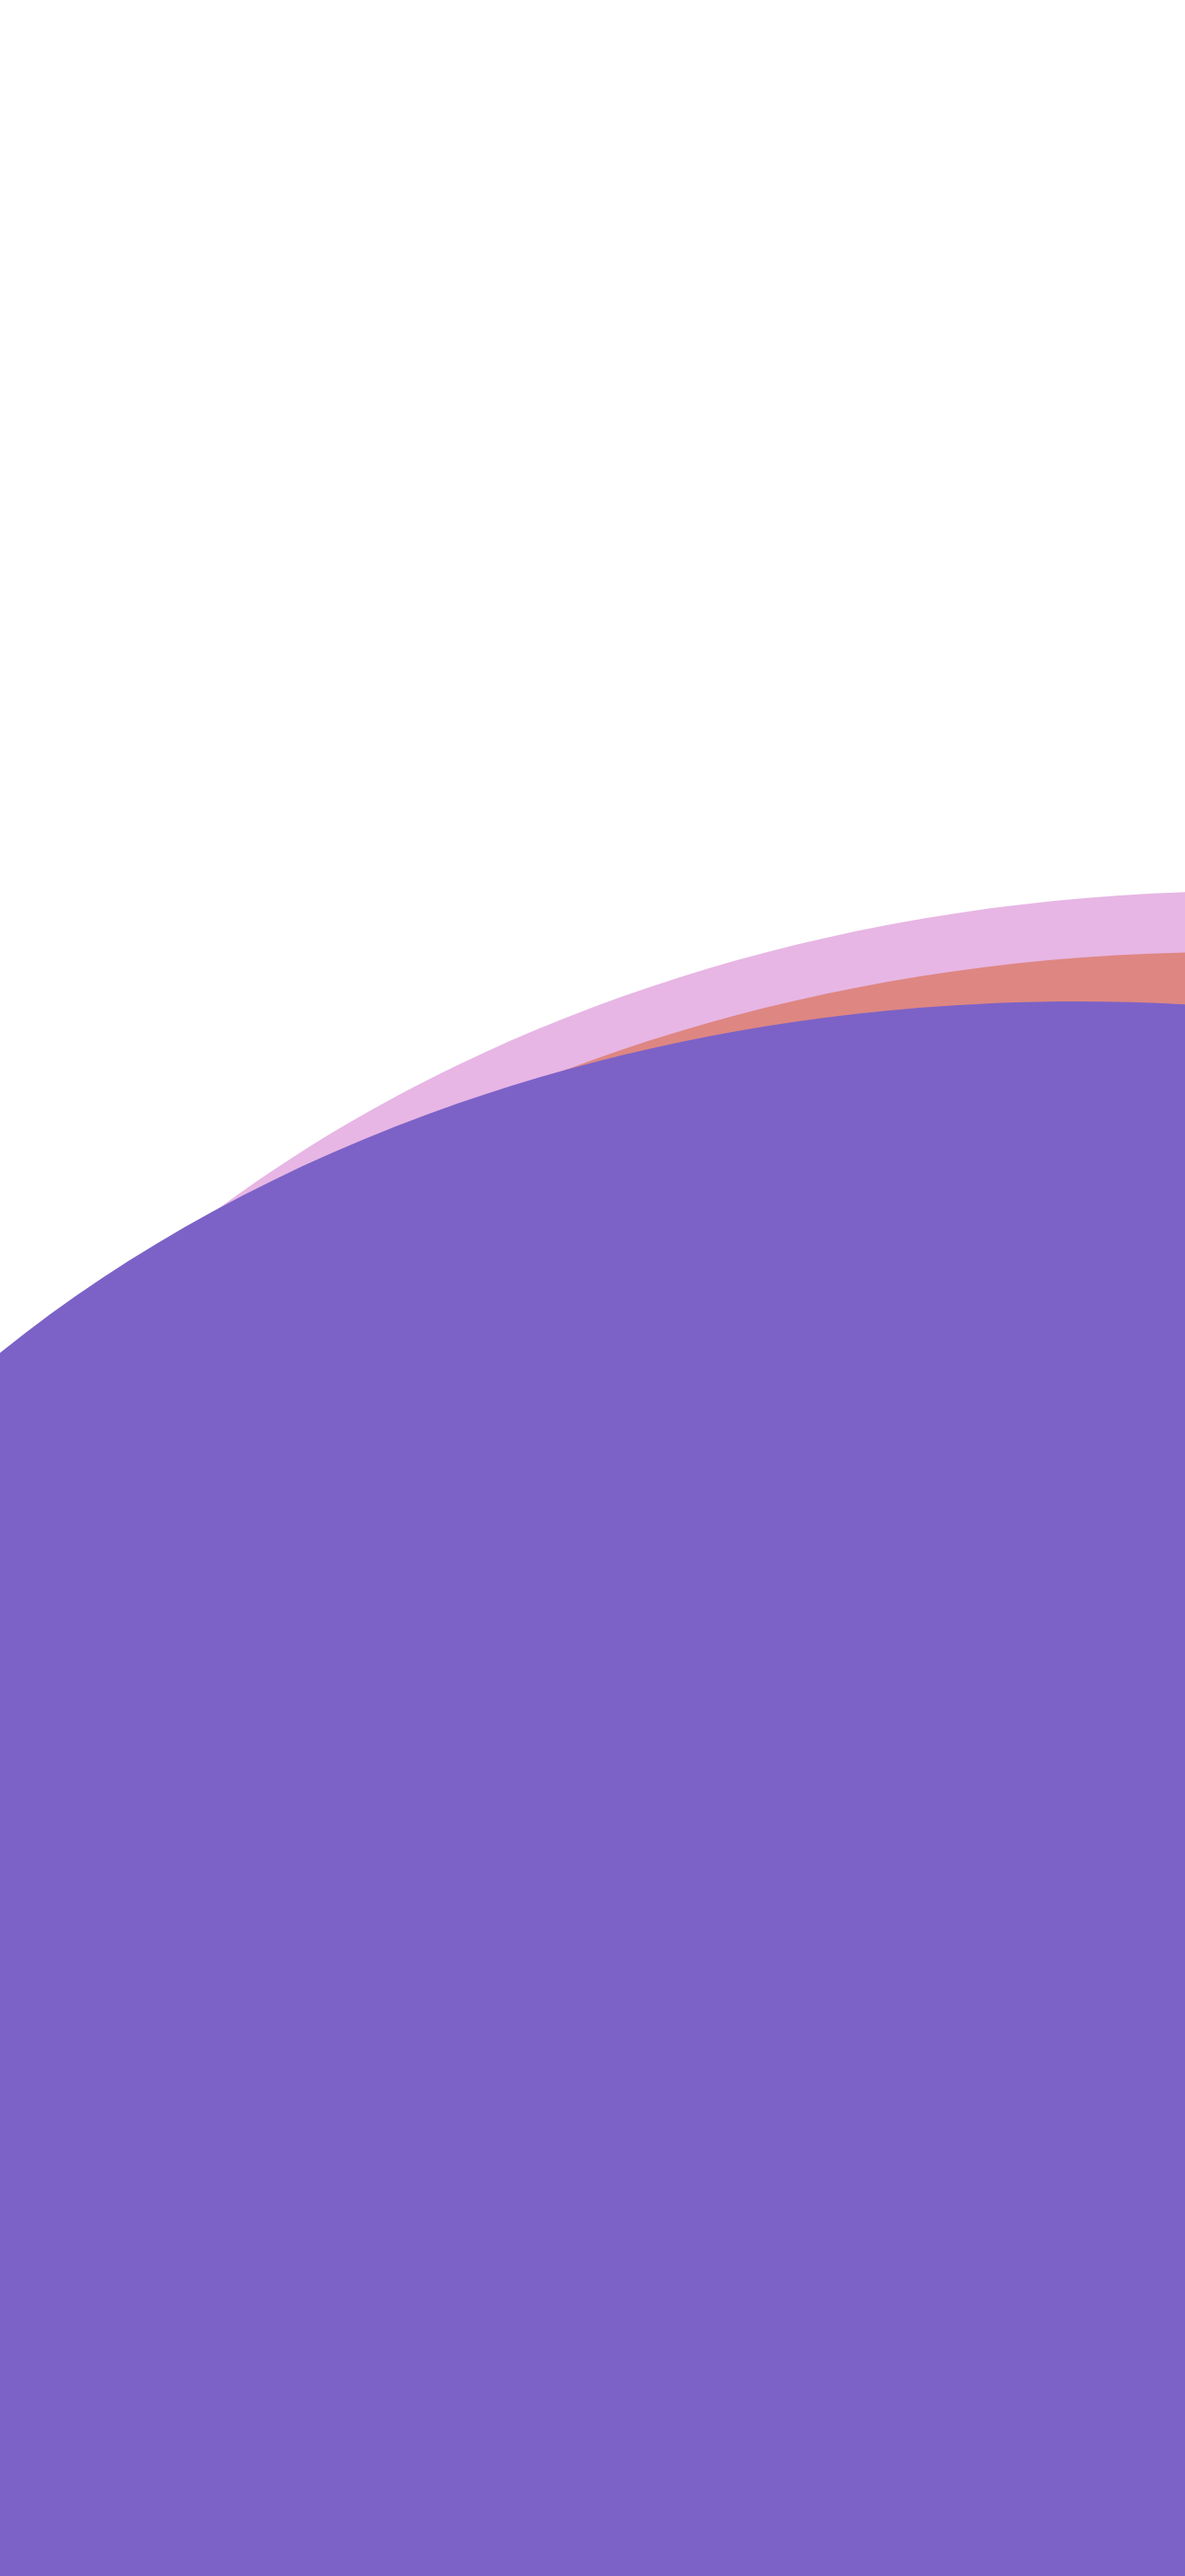
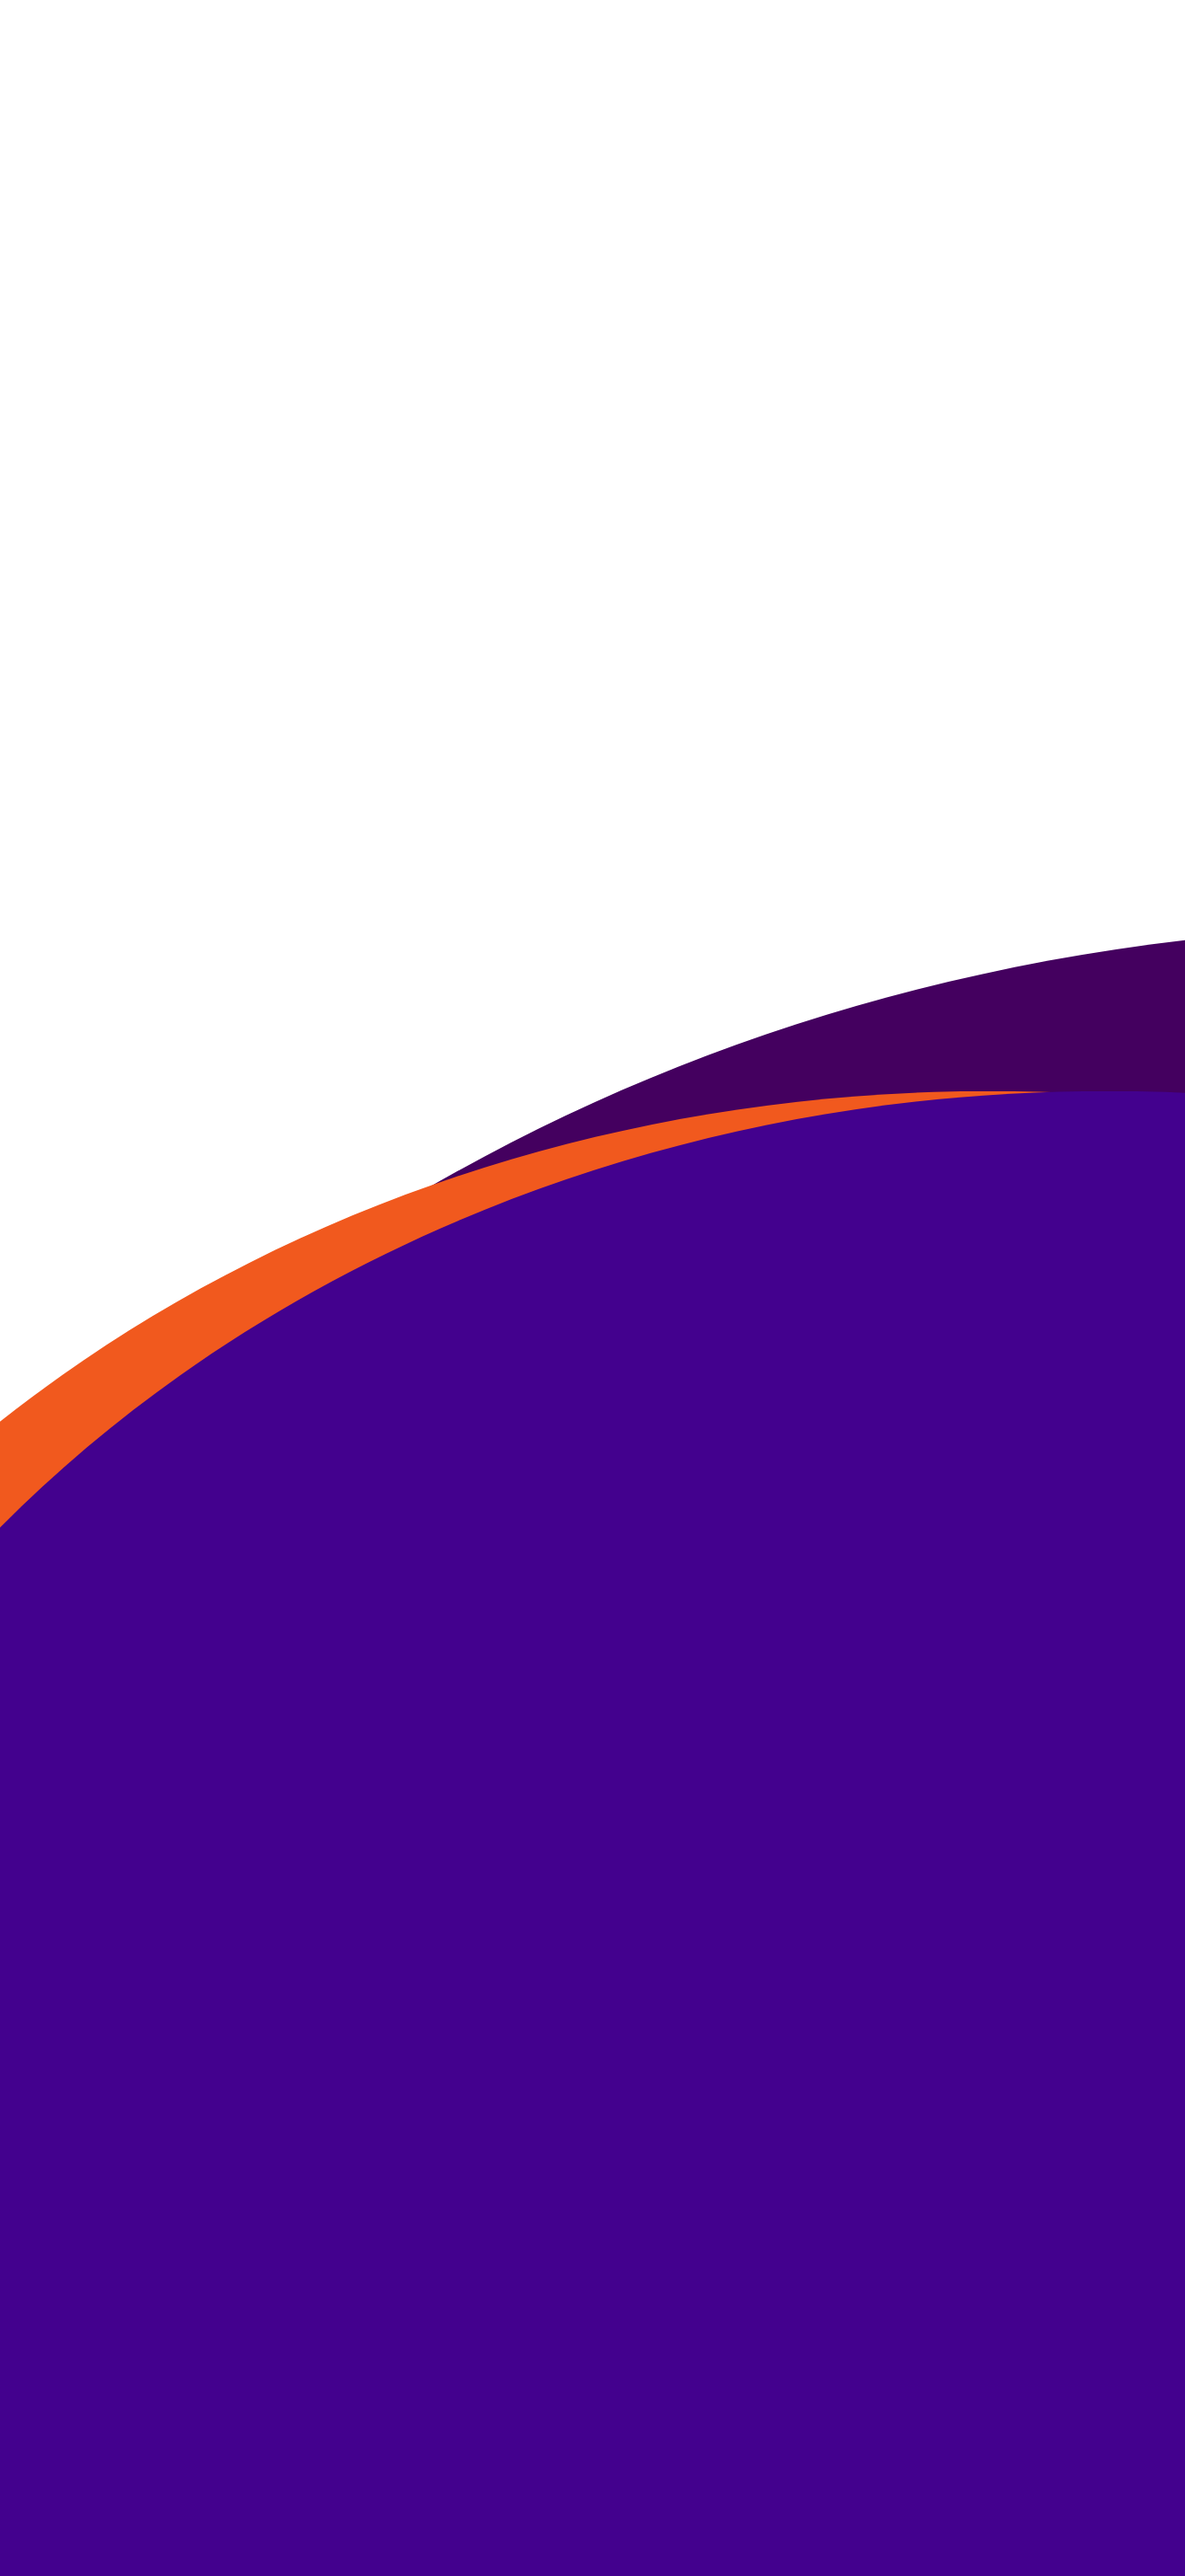
style: identidade visual

diff --git a/src/pages/user-personal-carteirinha-screen/index.tsx b/src/pages/user-personal-carteirinha-screen/index.tsx
@@ -203,7 +203,7 @@ const styles = StyleSheet.create({
   noAccessTitle: {
     fontSize: 24,
     fontWeight: 'bold',
-    color: '#7b5cbf',
+    color: '#44005F',
     marginBottom: 10,
     textAlign: 'center',
   },
@@ -330,7 +330,7 @@ const styles = StyleSheet.create({
     marginRight: 10,
   },
   infoLabel: {
-    color: '#7b5cbf',
+    color: '#44005F',
     fontSize: 14,
     fontWeight: '700',
     letterSpacing: 0.5,

diff --git a/src/components/loading-full.tsx b/src/components/loading-full.tsx
@@ -79,7 +79,7 @@ const LoadingFull = () => {
   transform: [{ translateY }],
 }]}>
     <LinearGradient
-      colors={['#44005F', '#44005F']} // aqui você define as cores do gradient
+      colors={['#44005F', '#43018E']} // aqui você define as cores do gradient
       start={{ x: 0, y: 0 }}
       end={{ x: 0, y: 1 }}
       style={{ flex: 1 }}

diff --git a/src/themes/app-theme.ts b/src/themes/app-theme.ts
@@ -14,7 +14,7 @@ const LightTheme = {
     onSecondary: '#FFFFFF',
     fundo: '#f7f7f7',
         textcolor: '#44005F', //searchbar
-        textcolor1: '#43018E', //searchbar
+        textcolor1: '#F1591E', //searchbar
 
     secondaryContainer: '#44005F', //searchbar
     onSecondaryContainer: '#FFF',
